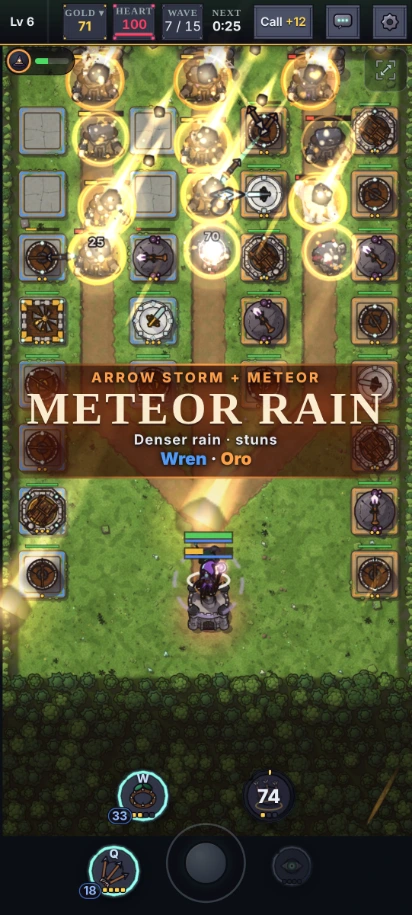
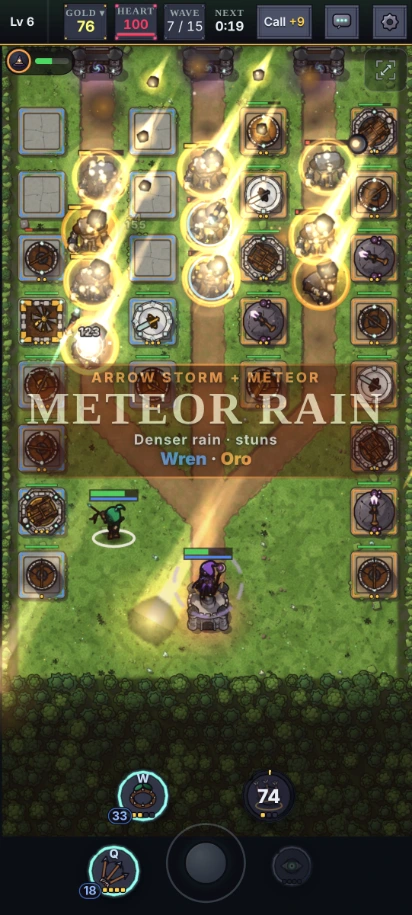
e-press: the Meteor Rain still with both heroes in the open; the ribbon pinned in full
Claude-Session: https://claude.ai/code/session_01F3BVH2wYsy29pq3JLFQWQf

diff --git a/apps/client/scripts/pressShots.ts b/apps/client/scripts/pressShots.ts
@@ -550,8 +550,10 @@ async function armHold(
       const freeze = () => {
         w.__tdt.pause?.(true);
         const el = document.querySelector(sel as string);
-        for (const a of el?.getAnimations({ subtree: true }) ?? []) if (Number(a.currentTime ?? 0) < (to as number)) a.currentTime = to as number;
         for (const a of document.getAnimations()) a.pause();
+        // The element's own animation set to `settle` ms in: what the page reads of it runs behind what the
+        // compositor already shows, so a fade or an entrance is pinned where it stands in full.
+        if ((to as number) > 0) for (const a of el?.getAnimations() ?? []) a.currentTime = to as number;
         w.__pressRaf ??= window.requestAnimationFrame;
         w.__pressFrames = [];
         window.requestAnimationFrame = (cb) => (w.__pressFrames.push(cb), 0);
@@ -884,8 +886,8 @@ async function shot3(browser: Browser): Promise<void> {
     if (Math.hypot(at.x - SPOT.x, at.y - SPOT.y) > 1.2) await walkTo(page, SPOT.x, SPOT.y);
     console.log('  the Ranger at', JSON.stringify(await heroAt(page)));
     // The fuse held 1.1 s into the ribbon's own animation (`fuse-ribbon`, 2 s), when the combo's meteors are falling
-    // on the three lanes (its first instant is a white burst).
-    const { held } = await armHold(page, '#fuse-ribbon.on', 1100, 0, 'animation');
+    // on the three lanes (its first instant is a white burst); the ribbon pinned at 0.9 s, in full (14% to 70%).
+    const { held } = await armHold(page, '#fuse-ribbon.on', 1100, 900, 'animation');
     await cast(page, 'R');
     bot.send({ t: 'cmd', cmd: { type: 'cast', slot: 'R' } });
     await held();
